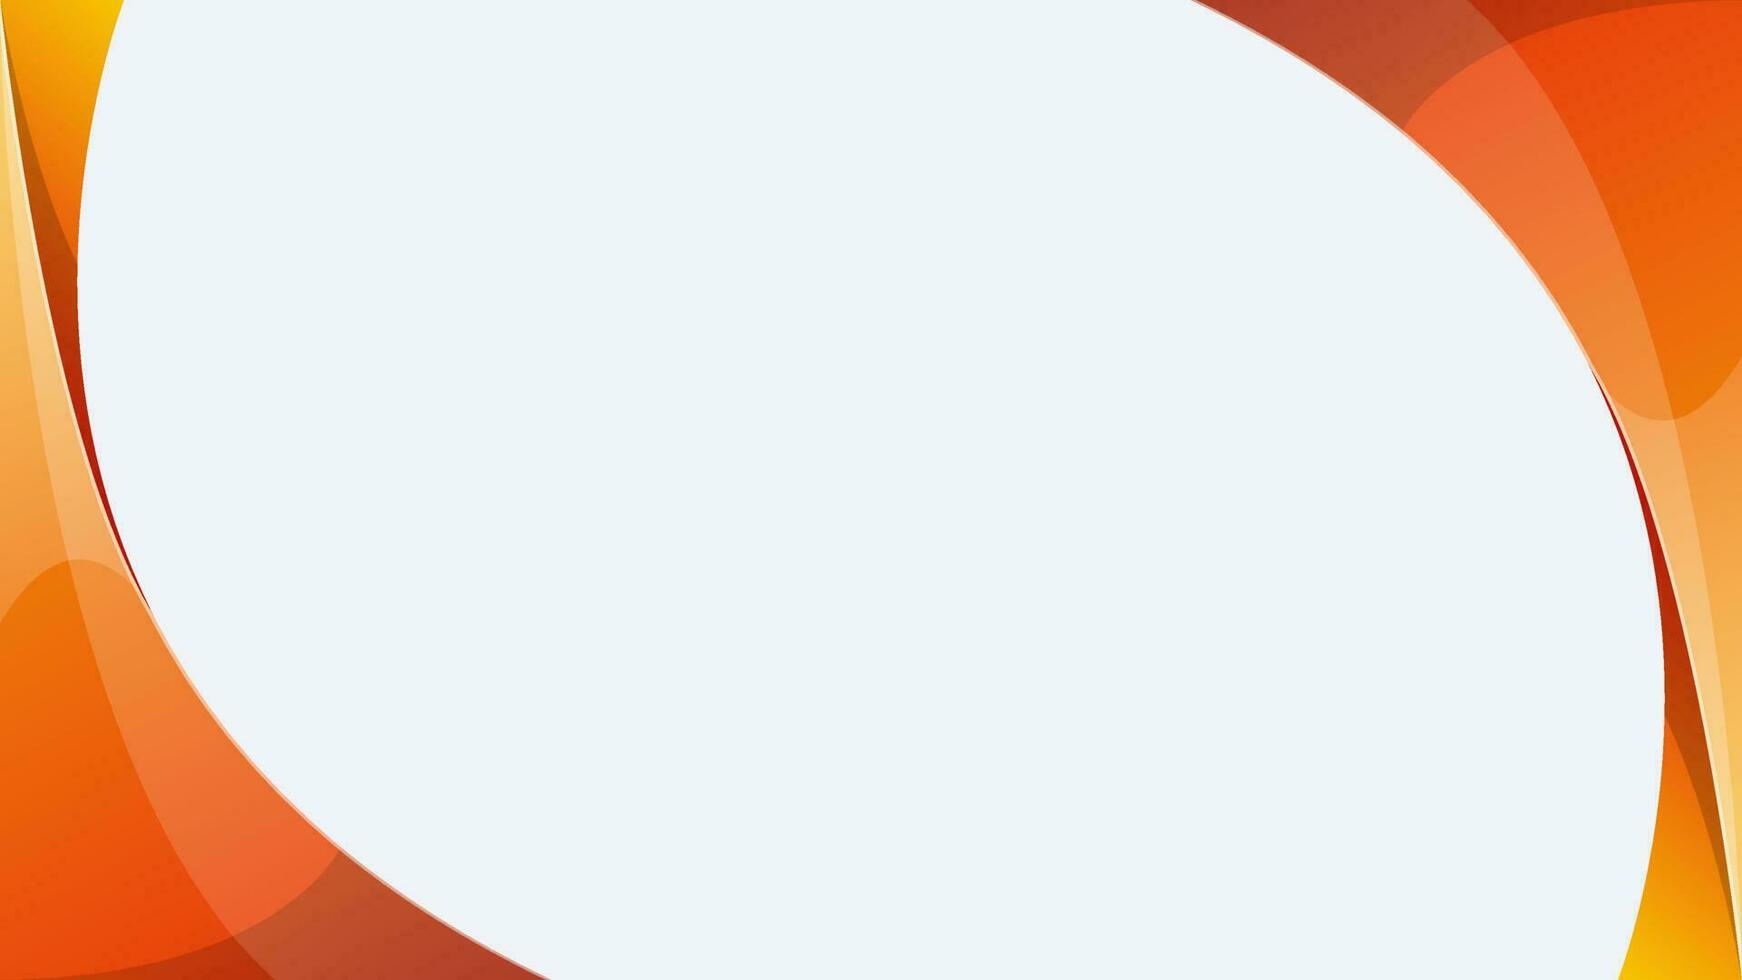
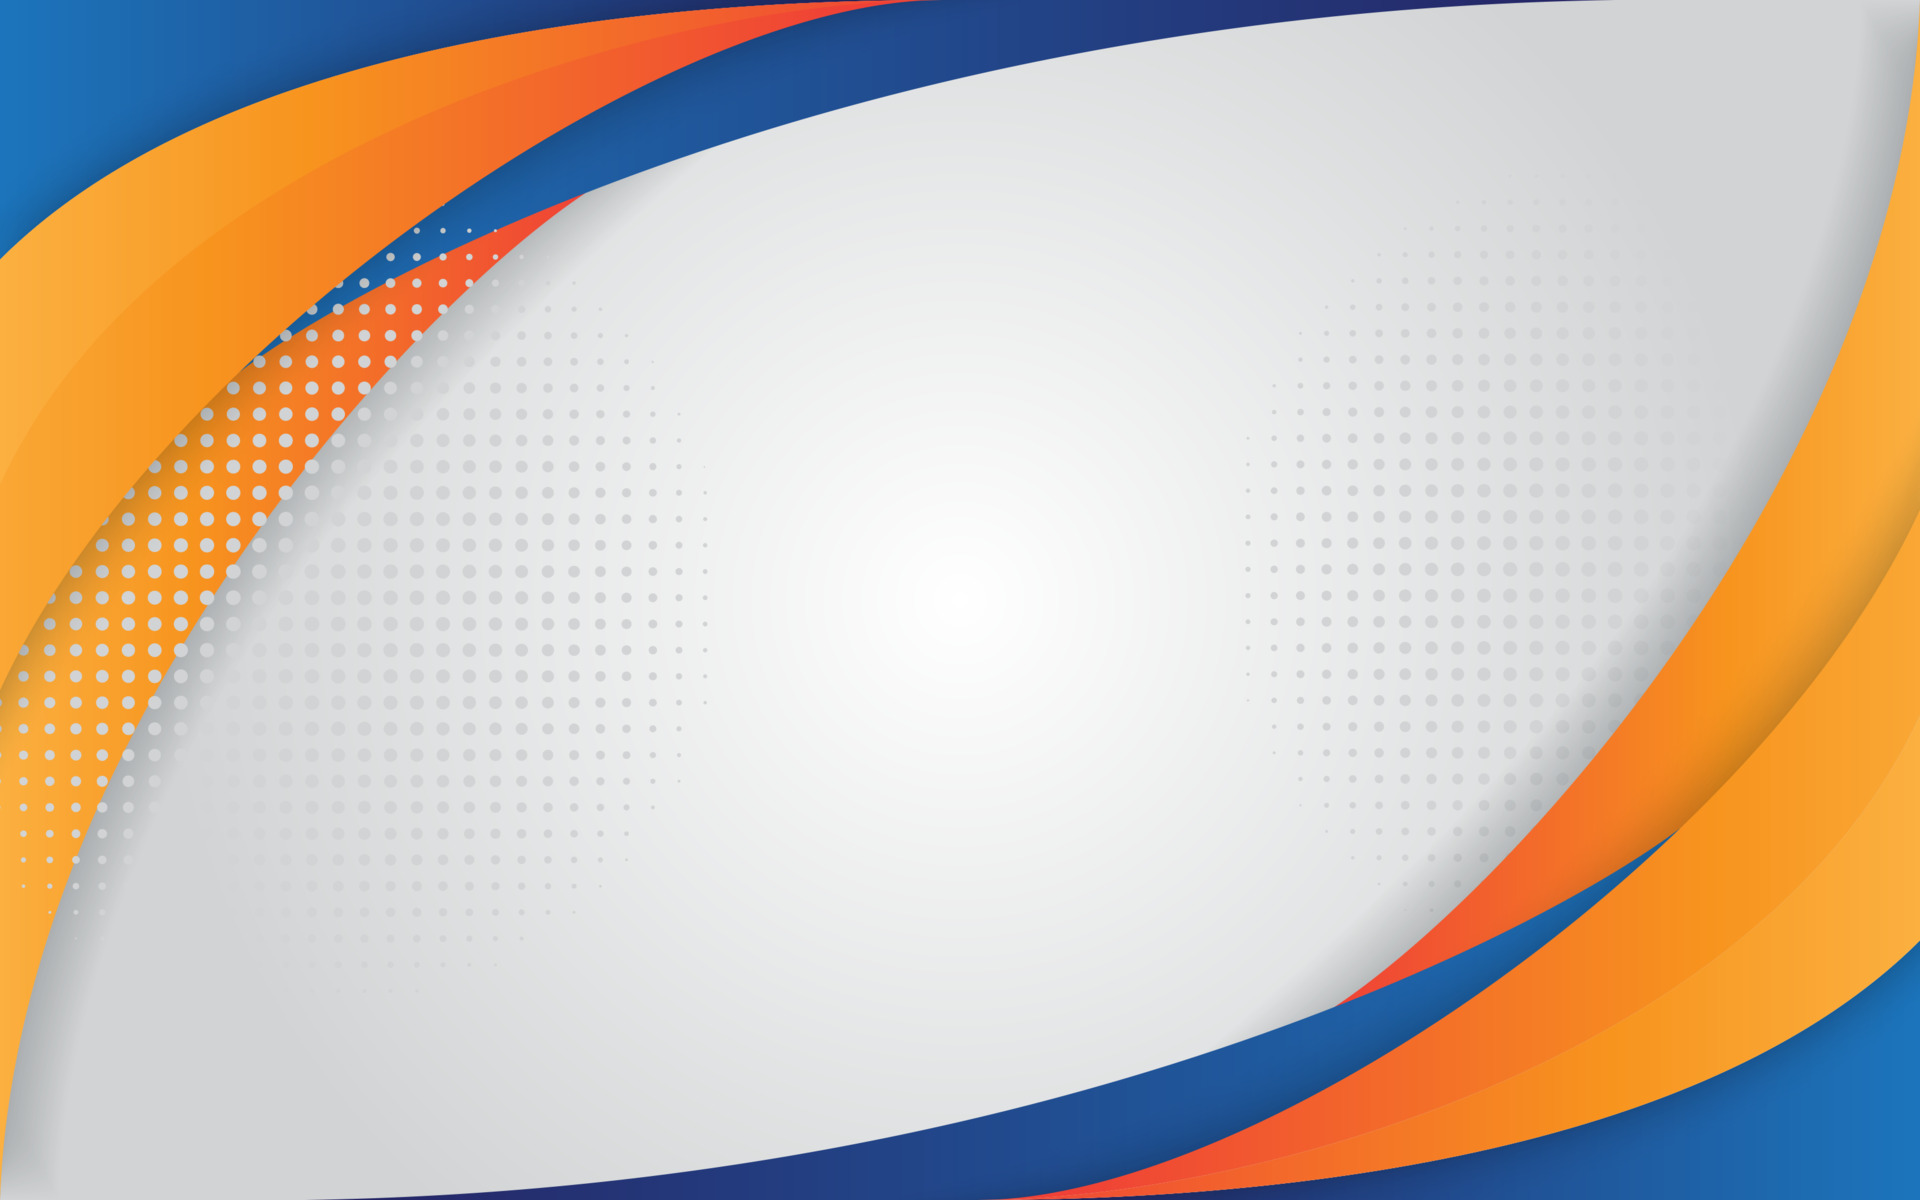
login registration page designed

diff --git a/Client/src/components/registrationComponent/RegistrationForm.jsx b/Client/src/components/registrationComponent/RegistrationForm.jsx
@@ -2,12 +2,11 @@
 import { toast } from 'react-toastify';
 import { useState } from "react";
 import { useNavigate } from "react-router-dom";
-import Blog from "../../assets/Blog.jpg"
-import "./registration.css"
+import Styles from "./registration.module.css"
 
 
 /*----------Registration Component----------*/
-const Registration = () => {
+const RegistrationForm = () => {
     const [state, setState] = useState({
         name: "",
         email: "",
@@ -70,25 +69,18 @@ const Registration = () => {
 
     //Return JSX
     return (
-        <div className="registration-container">
-           <div className="registration-box">
-                <div className="input-form">
-                    <h1 className="registration-heading">Registration</h1>
-                    <input className="registration-input-field" placeholder="Enter Your Name" onChange={(e)=>setValues("name", e.target.value)}/>
-                    <input className="registration-input-field" placeholder="Enter Your Email" onChange={(e)=>setValues("email", e.target.value)}/>
-                    <input className="registration-input-field" placeholder="Enter Your UserName" onChange={(e)=>setValues("userName", e.target.value)}/>
-                    <input className="registration-input-field" placeholder="Password" onChange={(e)=>setValues("password", e.target.value)}/>
-                    <div className="registration-buttons">
-                        <button className="registration-btn btn" onClick={handleClick}>Submit</button>
-                        <button className="registration-btn create-account-btn btn" onClick={loginPage}>Already a user</button>
+                <div className={Styles.inputForm}>
+                    <h1 className={Styles.registrationHeading}>Registration</h1>
+                    <input className={Styles.registrationInputField} placeholder="Enter Your Name" onChange={(e)=>setValues("name", e.target.value)}/>
+                    <input className={Styles.registrationInputField} placeholder="Enter Your Email" onChange={(e)=>setValues("email", e.target.value)}/>
+                    <input className={Styles.registrationInputField} placeholder="Enter Your UserName" onChange={(e)=>setValues("userName", e.target.value)}/>
+                    <input className={Styles.registrationInputField} placeholder="Password" onChange={(e)=>setValues("password", e.target.value)}/>
+                    <div className={Styles.registrationButtons}>
+                        <button className={`btn ${Styles.registrationBtn}`}  onClick={handleClick}>Submit</button>
+                        <button className={`btn ${Styles.registrationBtn}`} onClick={loginPage}>Already a user</button>
                     </div>
                 </div>
-                <div className="image">
-                    <img src={Blog} className="registration-image" alt="Blog image" />
-                </div>
-           </div>
-        </div>
     );
 };
 
-export default Registration;
+export default RegistrationForm;

diff --git a/Client/src/pages/registration/registrationPage.module.css b/Client/src/pages/registration/registrationPage.module.css
@@ -1,0 +1,74 @@
+.registrationContainer {
+  background-image: url("../../assets/background.jpg");
+  background-size: 100% 100%;
+  background-position: center;
+  margin: 0;
+  display: flex;
+  flex-direction: column;
+  justify-content: center;
+  align-items: center;
+  height: 100vh;
+}
+
+.registrationBox{
+  width: 30vw;
+  display: flex;
+  box-shadow: 0 3px 10px rgb(0 0 0 / 0.2);
+  border-radius: 8px;
+  background-color: white;
+  padding: 50px;
+}
+
+
+@media only screen and (max-width: 1291px){
+  .registrationBox{
+    width: 40vw;
+  }
+}
+
+@media only screen and (max-width: 1167px){
+  .registrationBox{
+    width: 50vw;
+  }
+}
+
+@media only screen and (max-width: 991px){
+  .registrationBox{
+    width: 55vw;
+  }
+}
+
+@media only screen and (max-width: 767px){
+  .registrationBox{
+    width: 60vw;
+  }
+}
+
+@media only screen and (max-width: 667px){
+  .registrationBox{
+    width: 70vw;
+  }
+}
+
+@media only screen and (max-width: 567px){
+  .registrationBox{
+    width: 80vw;
+  }
+}
+
+@media only screen and (max-width: 467px){
+  .registrationBox{
+    width: 90vw;
+    padding: 30px;
+  }
+}
+
+@media only screen and (max-width: 367px){
+  .registrationBox{
+    width: 90vw;
+    padding: 20px;
+  }
+  .registrationForm{
+    width: 100%;
+  }
+}

diff --git a/Client/src/components/registrationComponent/registration.module.css b/Client/src/components/registrationComponent/registration.module.css
@@ -1,0 +1,67 @@
+*{
+    margin: 0;
+    padding: 0;
+}
+
+
+  .registrationHeading{
+    display: flex;
+    justify-content: center;
+    align-items: center;
+    margin-bottom: 30px;
+    font-size: 50px;
+    font-weight: 600;
+    color:rgb(105, 6, 197)
+  }
+
+  .registrationInputField{
+    border: none;
+    border-bottom: 1px solid gray;
+    outline: none;
+    margin: 10px 0;
+    height: 40px;
+    width: 100%;
+    font-size: 16px;
+  }
+
+  .registrationButtons{
+    margin-top: 50px;
+    width: 100%;
+    display: flex;
+    justify-content: space-between;
+  }
+
+  .registrationBtn{
+    padding: 7px 30px;
+    cursor: pointer;
+    border: 1px solid rgb(105, 6, 197)
+  }
+
+  .registrationBtn:hover{
+    background-color: rgb(105, 6, 197);
+    color: white;
+  }
+
+
+  @media only screen and (max-width: 667px){
+    .registrationHeading{
+      font-size: 40px;
+    }
+  }
+
+
+  @media only screen and (max-width: 391px){
+    .registrationHeading{
+      margin-bottom: 20px;
+    }
+
+    .registrationButtons{
+      display: flex;
+      flex-direction: column;
+      margin-top: 30px;
+    }
+
+    .registrationBtn{
+      margin: 10px 0;
+    }
+  }

diff --git a/Client/src/App.jsx b/Client/src/App.jsx
@@ -1,17 +1,17 @@
 import { Routes, Route } from 'react-router-dom';
-
 import './App.css';
 import 'bootstrap';
 import 'bootstrap/dist/css/bootstrap.min.css';
 
 //Components import
 import Login from './pages/login/Login'
-import Registration from './pages/registration/Registration';
+import RegistrationPage from './pages/registration/RegistrationPage';
 
 
 // React toastity
 import { ToastContainer} from 'react-toastify';
 import 'react-toastify/dist/ReactToastify.css';
+
 
 function App() {
 
@@ -19,7 +19,7 @@ function App() {
     <div className='app-container'>
       <Routes>
         <Route exact path='/login' element={<Login />}></Route>
-        <Route exact path='/registration' element={<Registration />}></Route>
+        <Route exact path='/registration' element={<RegistrationPage />}></Route>
       </Routes>
       <ToastContainer
               position="top-center"

diff --git a/Client/src/pages/login/Login.jsx b/Client/src/pages/login/Login.jsx
@@ -1,6 +1,5 @@
 
 import { useNavigate } from "react-router-dom";
-import Blog from "../../assets/Blog.jpg"
 
 import "./login.css"
 
@@ -22,9 +21,6 @@ const Login = () => {
                         <button className="login-btn btn">Login</button>
                         <button className="login-btn create-account-btn btn" onClick={registrationPage}>Create account</button>
                     </div>
-                </div>
-                <div className="image">
-                    <img src={Blog} className="login-image" alt="Blog image" />
                 </div>
            </div>
         </div>

diff --git a/Client/src/pages/registration/RegistrationPage.jsx b/Client/src/pages/registration/RegistrationPage.jsx
@@ -1,0 +1,17 @@
+import RegistrationForm from "./../../components/registrationComponent/RegistrationForm";
+
+import Styles from "./registrationPage.module.css";
+
+const RegistrationPage = () => {
+  return (
+    <div className={Styles.registrationContainer}>
+      <div className={Styles.registrationBox}>
+        <div className={Styles.registrationForm}>
+          <RegistrationForm />
+        </div>
+      </div>
+    </div>
+  );
+};
+
+export default RegistrationPage;
